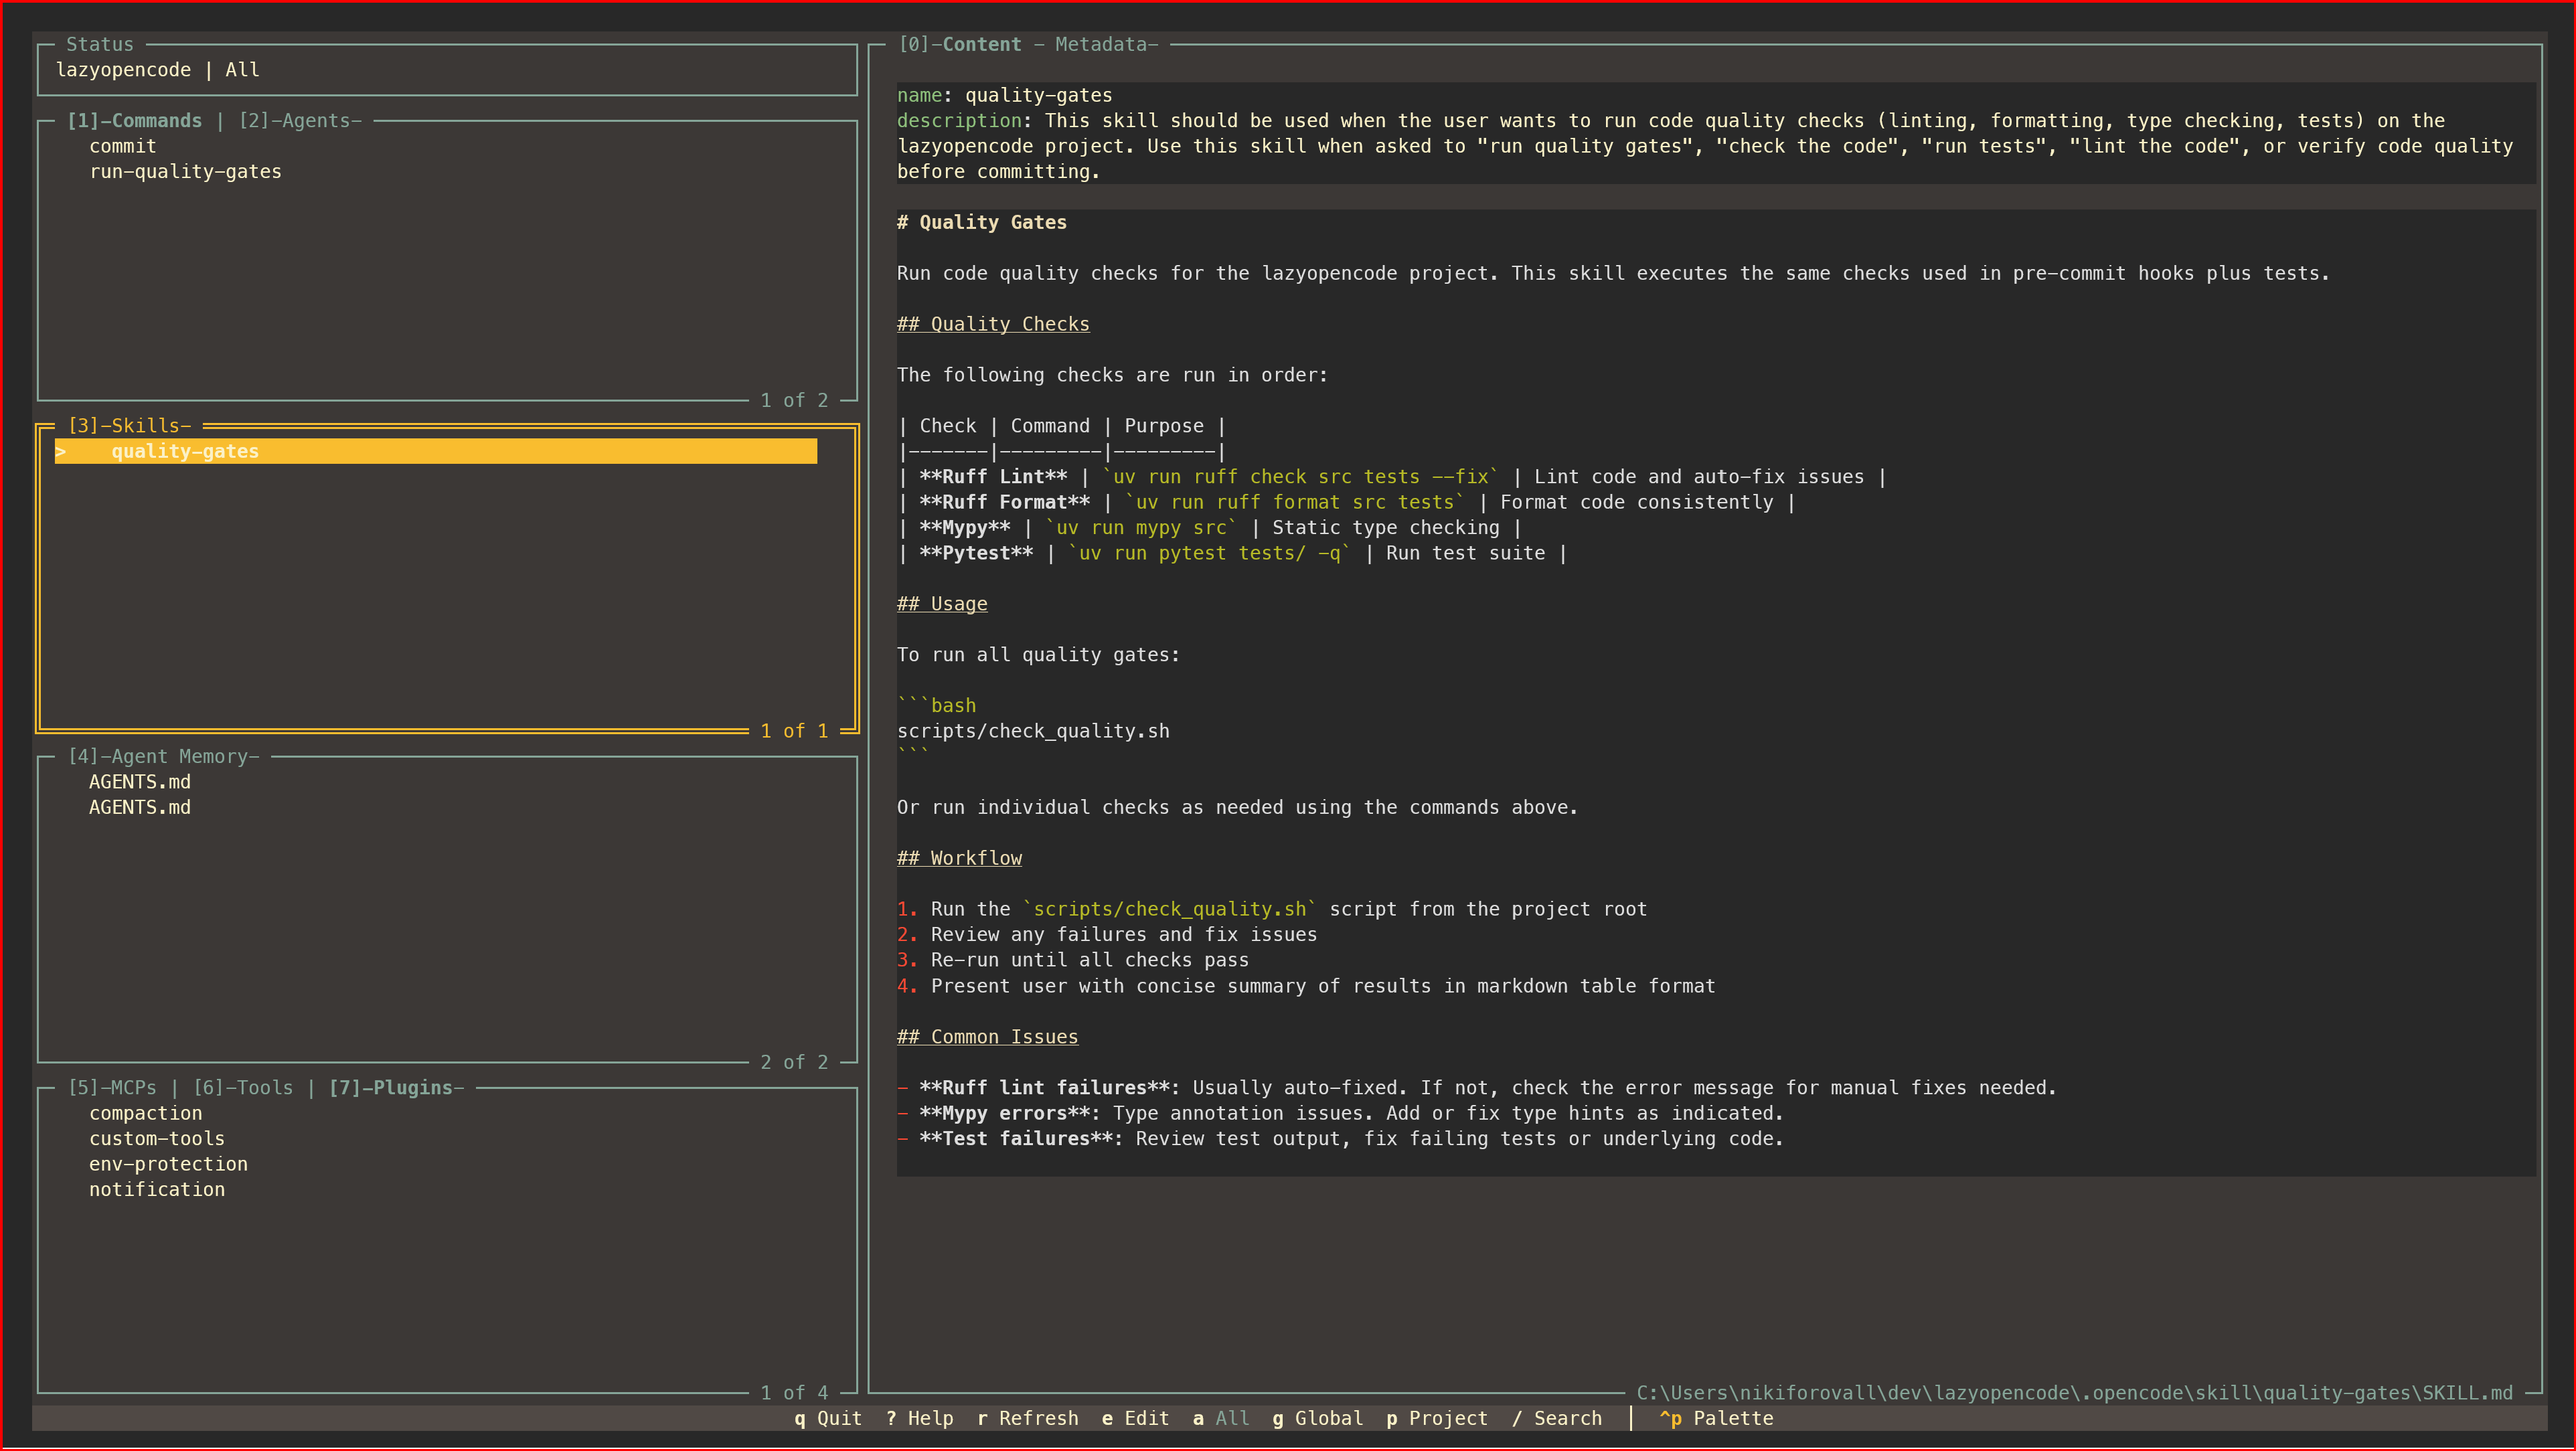
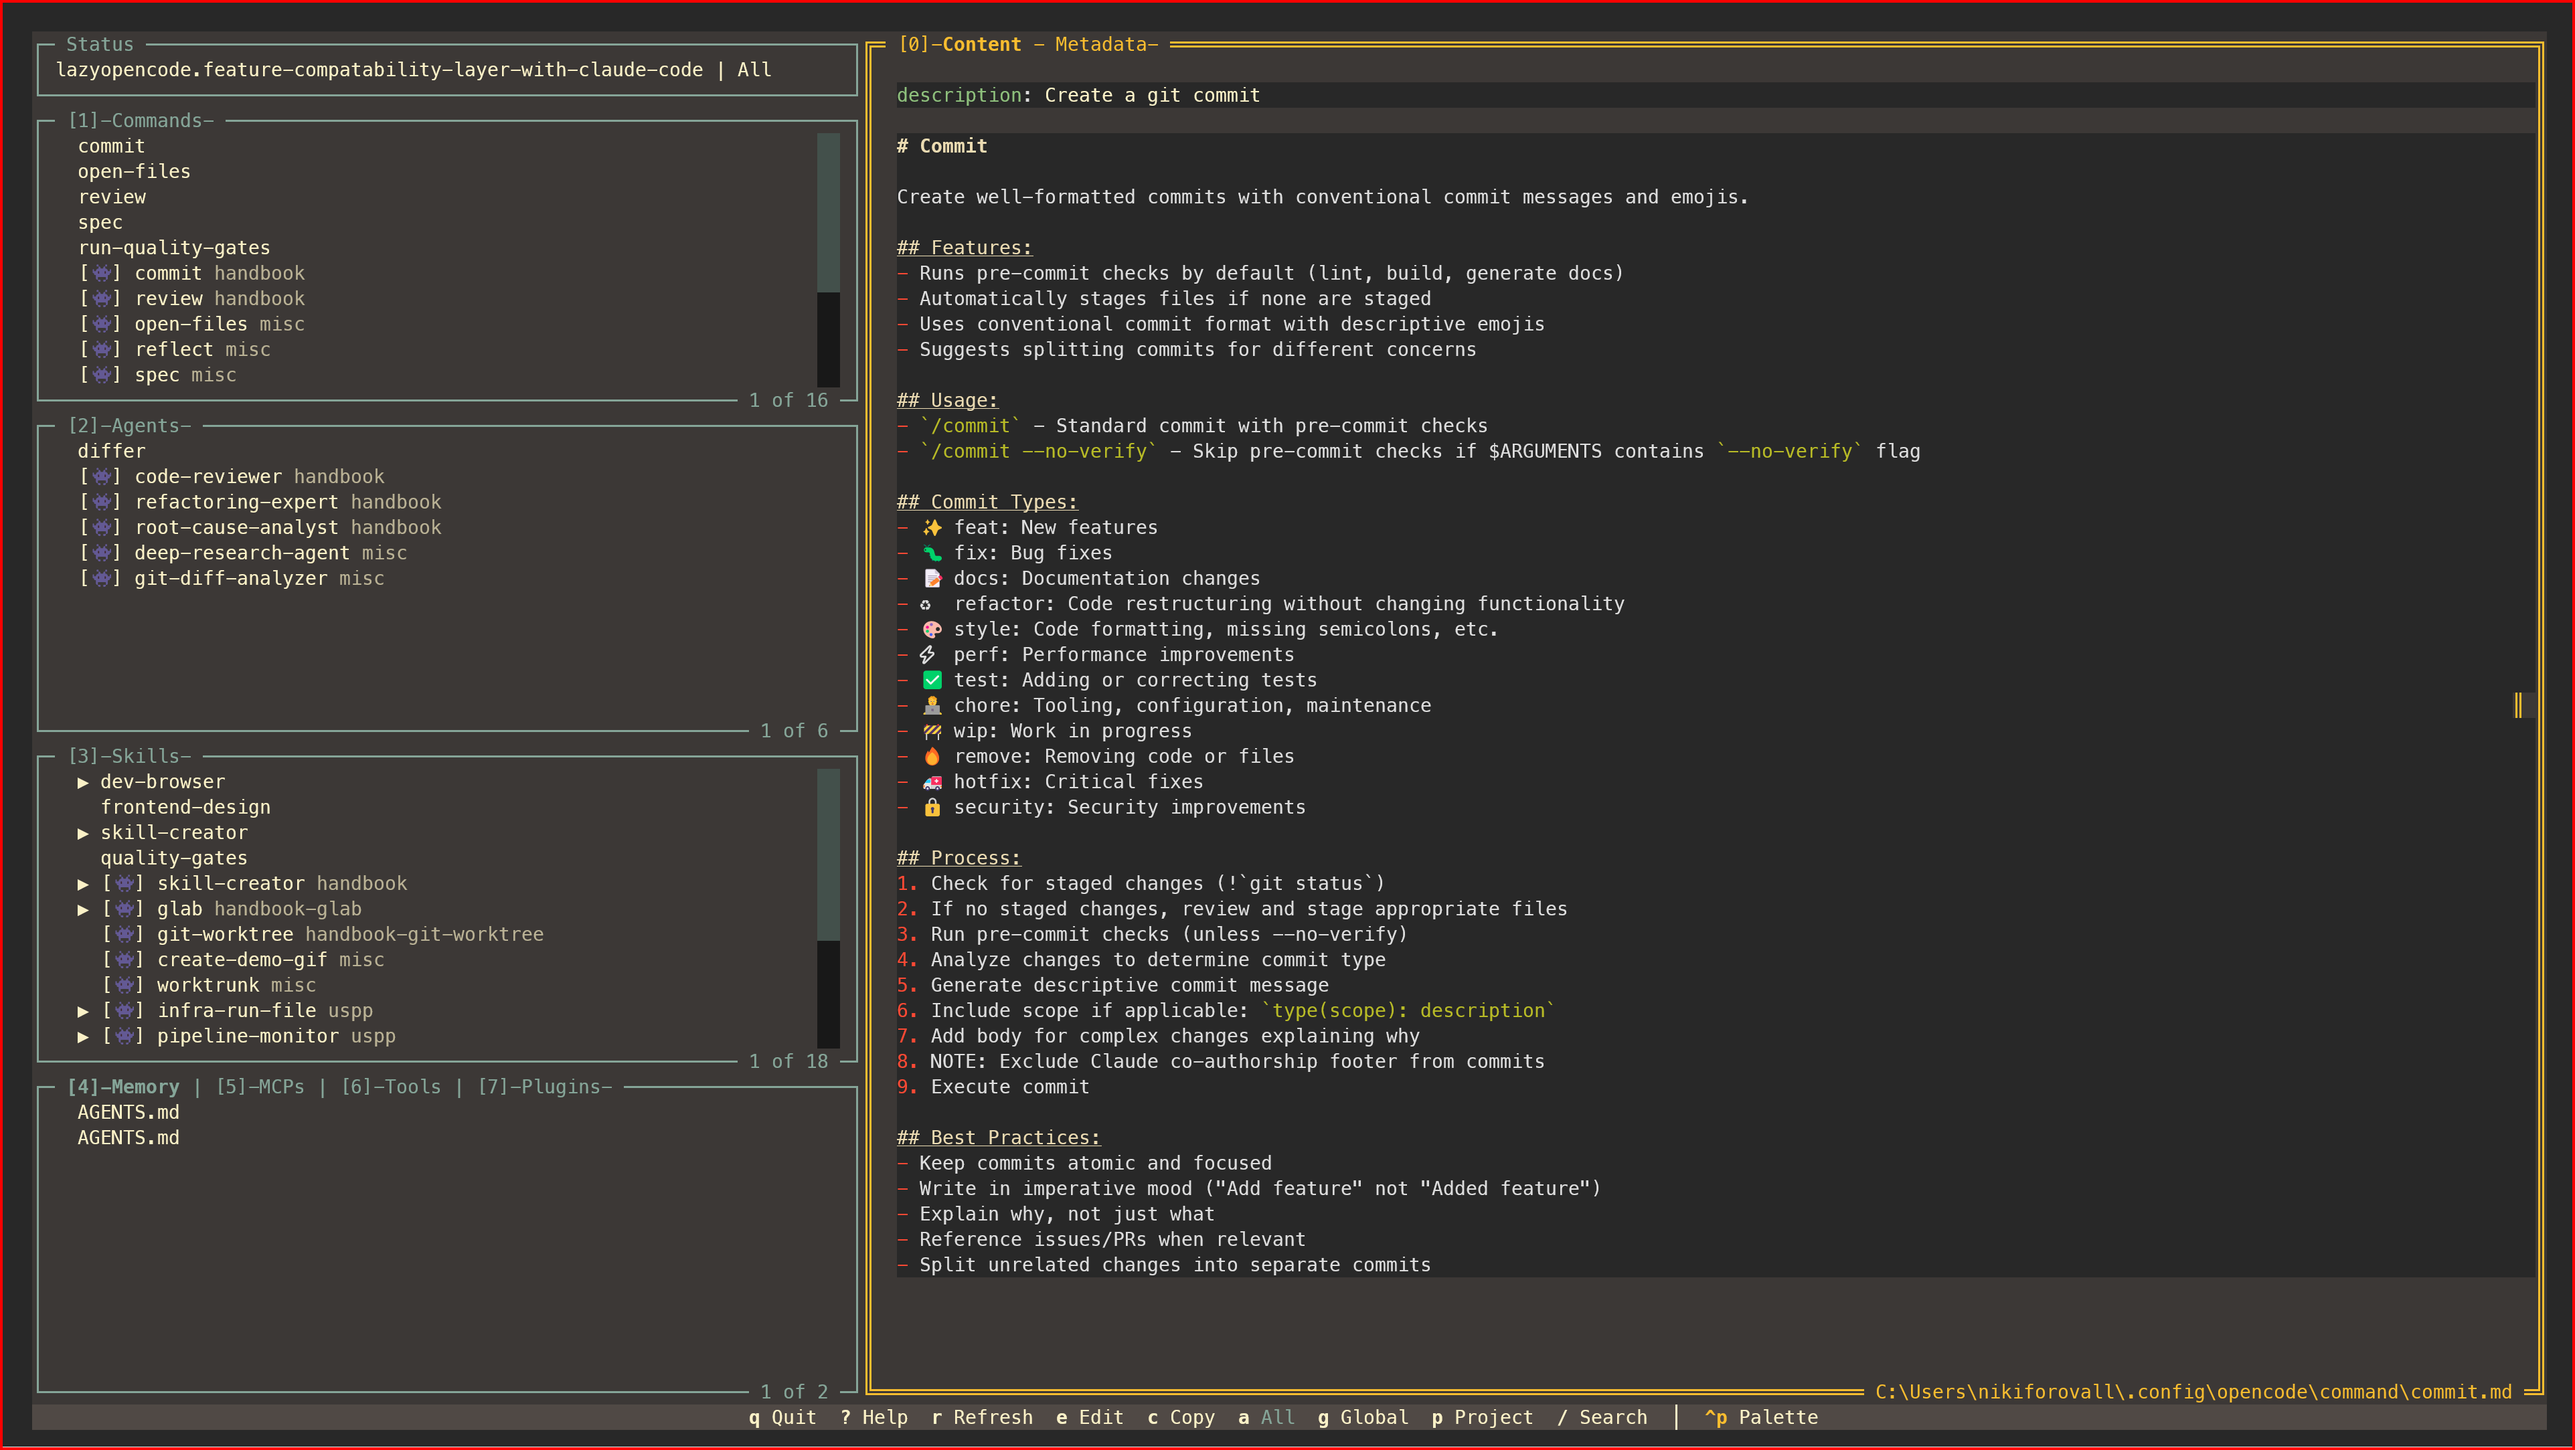
📝 docs: add Claude Code mode documentation

diff --git a/README.md b/README.md
@@ -11,6 +11,7 @@ A keyboard-driven TUI for managing OpenCode customizations.
 - View commands, agents, skills, rules, MCPs, and plugins
 - Filter by configuration level (global/project)
 - Search within customizations
+- Claude Code compatibility mode (`--claude-code`)
 
 ## Installation
 
@@ -38,6 +39,8 @@ pip install lazyopencode
 | `p`        | Project filter   |
 | `/`        | Search           |
 | `e`        | Edit selected    |
+| `c`        | Copy to level    |
+| `C`        | Copy path        |
 | `r`        | Refresh          |
 | `ctrl+u`   | User Config      |
 | `?`        | Help             |
@@ -56,6 +59,24 @@ LazyOpenCode discovers customizations from:
 | MCPs     | `~/.config/opencode/opencode.json` | `opencode.json`      |
 | Tools    | `~/.config/opencode/tool/`         | `.opencode/tool/`    |
 | Plugins  | `~/.config/opencode/plugin/`       | `.opencode/plugin/`  |
+
+## Claude Code Mode
+
+Enable Claude Code compatibility to also discover customizations from `~/.claude/`:
+
+```bash
+lazyopencode --claude-code
+```
+
+This discovers commands, agents, and skills from:
+
+| Scope   | Path                                      |
+| ------- | ----------------------------------------- |
+| User    | `~/.claude/commands/`, `~/.claude/agents/` |
+| Project | `.claude/commands/`, `.claude/agents/`    |
+| Plugins | Installed plugins from registry           |
+
+Claude Code items are marked with 👾 and can be copied to OpenCode paths using `c`.
 
 ## Inspired By
 
